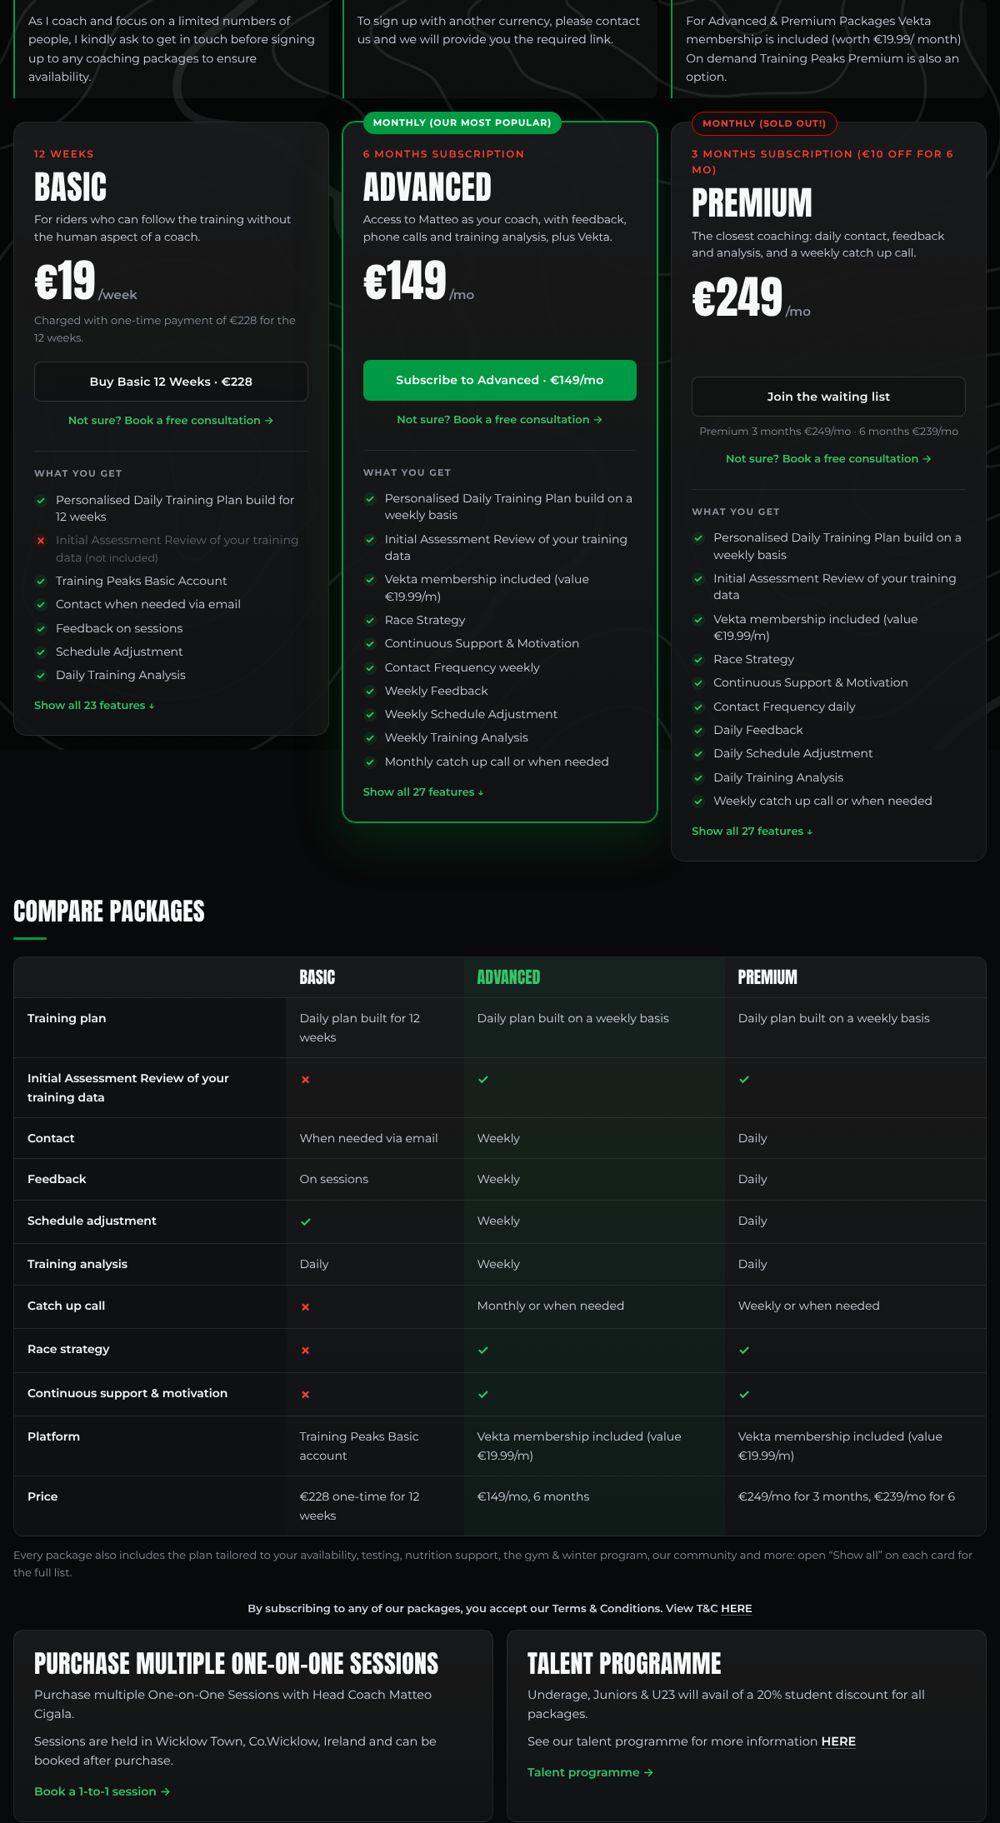
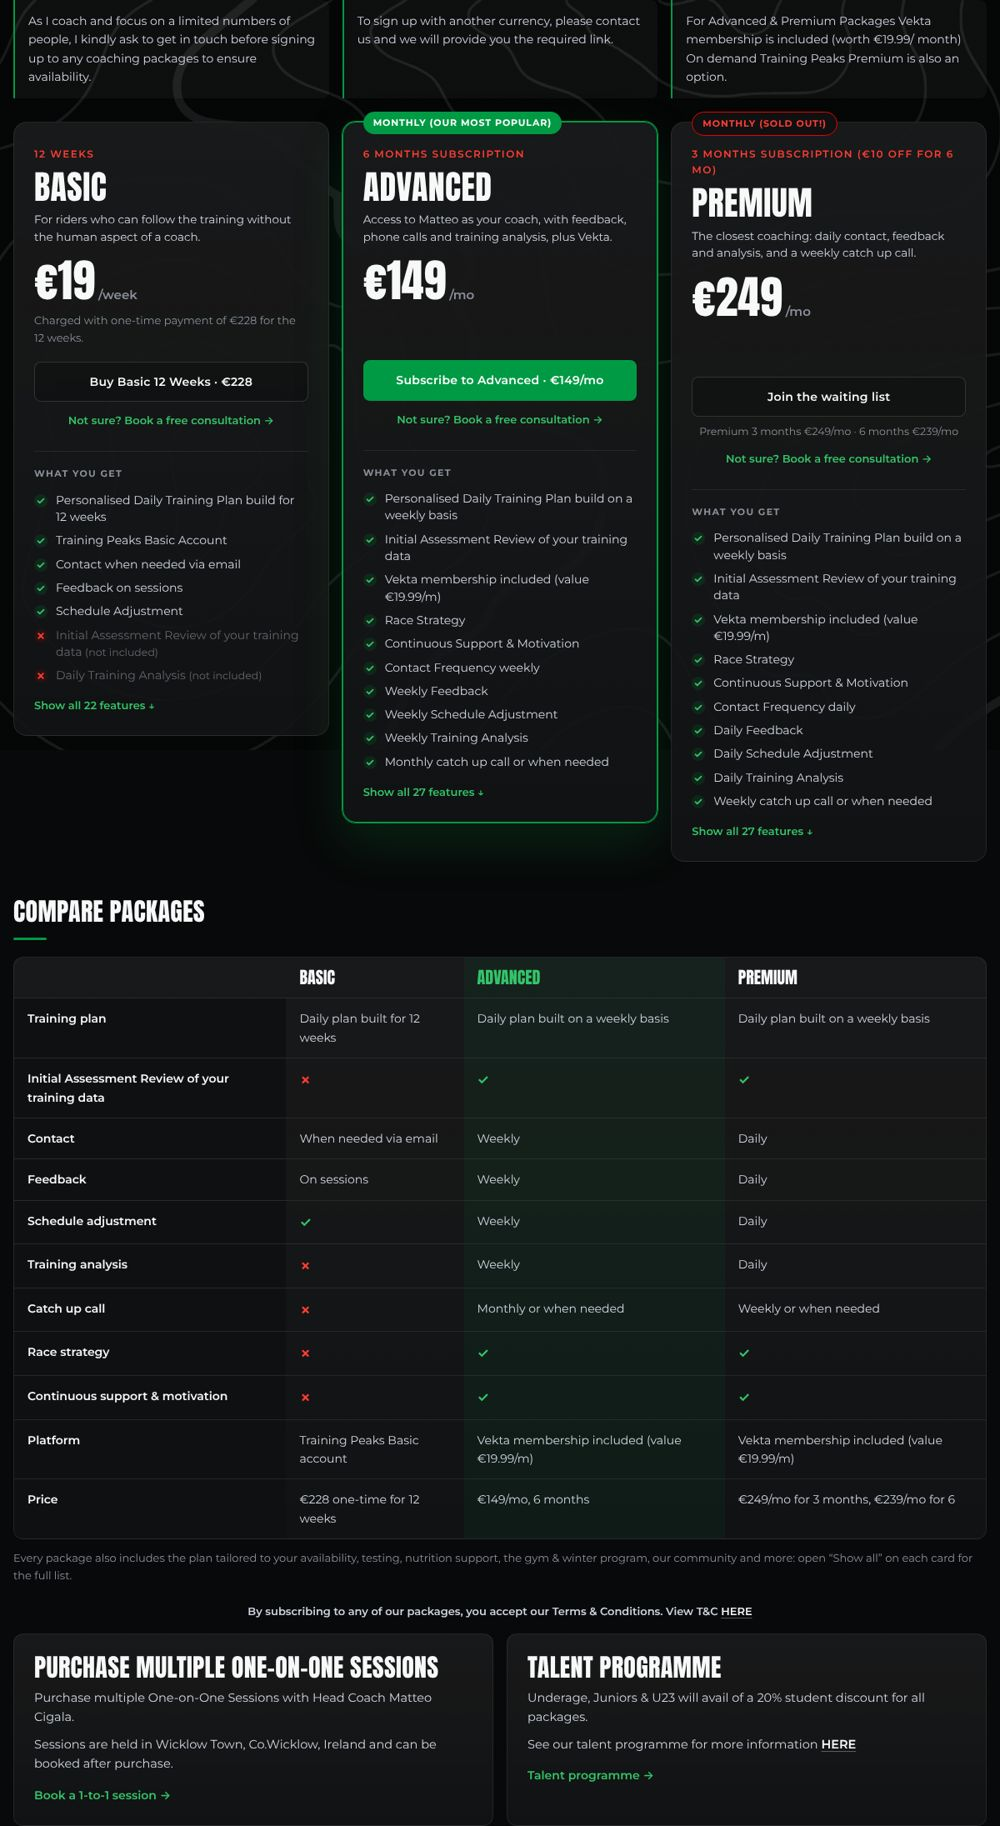
Individual Packages: Basic does not include training analysis (Matteo); not-included lines grouped at the end
Claude-Session: https://claude.ai/code/session_01APBtfV87hW2MRrnroMbwU8

diff --git a/coachingpages/individual-packages.html b/coachingpages/individual-packages.html
@@ -482,8 +482,8 @@ footer .in.social { display: flex; flex-wrap: wrap; gap: 8px; padding-bottom: 24
         <p class="pkg-sub">Charged with one-time payment of €228 for the 12 weeks.</p>
         <div class="pkg-buy"><a class="btn btn-ghost pay" href="https://cigala-cycling-retail.myshopify.com/cart/31567870165038:1?channel=buy_button" target="_blank" rel="noopener">Buy Basic 12 Weeks · €228</a><a class="pkg-call" href="https://calendly.com/cigalacycling" target="_blank" rel="noopener">Not sure? Book a free consultation →</a></div>
         <div class="pkg-lab">What you get</div>
-        <ul class="ticks"><li>Personalised Daily Training Plan build for 12 weeks</li><li class="no">Initial Assessment Review of your training data <span>(not included)</span></li><li>Training Peaks Basic Account</li><li>Contact when needed via email</li><li>Feedback on sessions</li><li>Schedule Adjustment</li><li>Daily Training Analysis</li><li class="more">Plan Tailored to your Training Availability</li><li class="more">Stretching &amp; Core Exercises</li><li class="more">Gym &amp; Winter Program + Support</li><li class="more">Test Protocols (CP, FTP, FTHR or INSCYD)</li><li class="more">Tests Analysis</li><li class="more">Adaptive Training Zones changing weekly</li><li class="more">Training Periodized based on goals</li><li class="more">Blood panel review from our Sport Nutritionist</li><li class="more">Discount membership for products at retail.cigalacycling.com</li><li class="more">Nutritional Guide</li><li class="more">Blog posts for tips</li><li class="more">Sync &amp; follow workouts on Garmin/Wahoo/Zwift etc</li><li class="more">Access to World Class Nutritionist &amp; Mental Coach</li><li class="more">Access to our online Community (value €9/m)</li><li class="more">Discounted metabolic INSCYD testing</li><li class="more">Daily Session Carbs Recommendations</li><li class="more">Nutritional Consult with our Sports Nutritionist</li></ul>
-        <button type="button" class="pkg-all" aria-expanded="false" data-n="23">Show all 23 features ↓</button>
+        <ul class="ticks"><li>Personalised Daily Training Plan build for 12 weeks</li><li>Training Peaks Basic Account</li><li>Contact when needed via email</li><li>Feedback on sessions</li><li>Schedule Adjustment</li><li class="no">Initial Assessment Review of your training data <span>(not included)</span></li><li class="no">Daily Training Analysis <span>(not included)</span></li><li class="more">Plan Tailored to your Training Availability</li><li class="more">Stretching &amp; Core Exercises</li><li class="more">Gym &amp; Winter Program + Support</li><li class="more">Test Protocols (CP, FTP, FTHR or INSCYD)</li><li class="more">Tests Analysis</li><li class="more">Adaptive Training Zones changing weekly</li><li class="more">Training Periodized based on goals</li><li class="more">Blood panel review from our Sport Nutritionist</li><li class="more">Discount membership for products at retail.cigalacycling.com</li><li class="more">Nutritional Guide</li><li class="more">Blog posts for tips</li><li class="more">Sync &amp; follow workouts on Garmin/Wahoo/Zwift etc</li><li class="more">Access to World Class Nutritionist &amp; Mental Coach</li><li class="more">Access to our online Community (value €9/m)</li><li class="more">Discounted metabolic INSCYD testing</li><li class="more">Daily Session Carbs Recommendations</li><li class="more">Nutritional Consult with our Sports Nutritionist</li></ul>
+        <button type="button" class="pkg-all" aria-expanded="false" data-n="22">Show all 22 features ↓</button>
       </article><article class="pkg hot" id="pkg-advanced">
         <span class="pkg-badge">Monthly (Our Most Popular)</span>
         <div class="pkg-term">6 months subscription</div>
@@ -508,7 +508,7 @@ footer .in.social { display: flex; flex-wrap: wrap; gap: 8px; padding-bottom: 24
         <button type="button" class="pkg-all" aria-expanded="false" data-n="27">Show all 27 features ↓</button>
       </article>
     </div>
-    <div class="cmp-wrap"><h3 class="h-sm">Compare packages</h3><div class="bar"></div><div class="cmp-scroll"><table class="cmp"><thead><tr><th scope="col"><span class="vh">Feature</span></th><th scope="col">Basic</th><th scope="col" class="hot">Advanced</th><th scope="col">Premium</th></tr></thead><tbody><tr><th scope="row">Training plan</th><td data-l="Basic">Daily plan built for 12 weeks</td><td class="hot" data-l="Advanced">Daily plan built on a weekly basis</td><td data-l="Premium">Daily plan built on a weekly basis</td></tr><tr><th scope="row">Initial Assessment Review of your training data</th><td data-l="Basic"><span class="n" aria-label="Not included">✗</span></td><td class="hot" data-l="Advanced"><span class="y" aria-label="Included">✓</span></td><td data-l="Premium"><span class="y" aria-label="Included">✓</span></td></tr><tr><th scope="row">Contact</th><td data-l="Basic">When needed via email</td><td class="hot" data-l="Advanced">Weekly</td><td data-l="Premium">Daily</td></tr><tr><th scope="row">Feedback</th><td data-l="Basic">On sessions</td><td class="hot" data-l="Advanced">Weekly</td><td data-l="Premium">Daily</td></tr><tr><th scope="row">Schedule adjustment</th><td data-l="Basic"><span class="y" aria-label="Included">✓</span></td><td class="hot" data-l="Advanced">Weekly</td><td data-l="Premium">Daily</td></tr><tr><th scope="row">Training analysis</th><td data-l="Basic">Daily</td><td class="hot" data-l="Advanced">Weekly</td><td data-l="Premium">Daily</td></tr><tr><th scope="row">Catch up call</th><td data-l="Basic"><span class="n" aria-label="Not included">✗</span></td><td class="hot" data-l="Advanced">Monthly or when needed</td><td data-l="Premium">Weekly or when needed</td></tr><tr><th scope="row">Race strategy</th><td data-l="Basic"><span class="n" aria-label="Not included">✗</span></td><td class="hot" data-l="Advanced"><span class="y" aria-label="Included">✓</span></td><td data-l="Premium"><span class="y" aria-label="Included">✓</span></td></tr><tr><th scope="row">Continuous support &amp; motivation</th><td data-l="Basic"><span class="n" aria-label="Not included">✗</span></td><td class="hot" data-l="Advanced"><span class="y" aria-label="Included">✓</span></td><td data-l="Premium"><span class="y" aria-label="Included">✓</span></td></tr><tr><th scope="row">Platform</th><td data-l="Basic">Training Peaks Basic account</td><td class="hot" data-l="Advanced">Vekta membership included (value €19.99/m)</td><td data-l="Premium">Vekta membership included (value €19.99/m)</td></tr><tr><th scope="row">Price</th><td data-l="Basic">€228 one-time for 12 weeks</td><td class="hot" data-l="Advanced">€149/mo, 6 months</td><td data-l="Premium">€249/mo for 3 months, €239/mo for 6</td></tr></tbody></table></div><p class="cmp-note">Every package also includes the plan tailored to your availability, testing, nutrition support, the gym &amp; winter program, our community and more: open “Show all” on each card for the full list.</p></div>
+    <div class="cmp-wrap"><h3 class="h-sm">Compare packages</h3><div class="bar"></div><div class="cmp-scroll"><table class="cmp"><thead><tr><th scope="col"><span class="vh">Feature</span></th><th scope="col">Basic</th><th scope="col" class="hot">Advanced</th><th scope="col">Premium</th></tr></thead><tbody><tr><th scope="row">Training plan</th><td data-l="Basic">Daily plan built for 12 weeks</td><td class="hot" data-l="Advanced">Daily plan built on a weekly basis</td><td data-l="Premium">Daily plan built on a weekly basis</td></tr><tr><th scope="row">Initial Assessment Review of your training data</th><td data-l="Basic"><span class="n" aria-label="Not included">✗</span></td><td class="hot" data-l="Advanced"><span class="y" aria-label="Included">✓</span></td><td data-l="Premium"><span class="y" aria-label="Included">✓</span></td></tr><tr><th scope="row">Contact</th><td data-l="Basic">When needed via email</td><td class="hot" data-l="Advanced">Weekly</td><td data-l="Premium">Daily</td></tr><tr><th scope="row">Feedback</th><td data-l="Basic">On sessions</td><td class="hot" data-l="Advanced">Weekly</td><td data-l="Premium">Daily</td></tr><tr><th scope="row">Schedule adjustment</th><td data-l="Basic"><span class="y" aria-label="Included">✓</span></td><td class="hot" data-l="Advanced">Weekly</td><td data-l="Premium">Daily</td></tr><tr><th scope="row">Training analysis</th><td data-l="Basic"><span class="n" aria-label="Not included">✗</span></td><td class="hot" data-l="Advanced">Weekly</td><td data-l="Premium">Daily</td></tr><tr><th scope="row">Catch up call</th><td data-l="Basic"><span class="n" aria-label="Not included">✗</span></td><td class="hot" data-l="Advanced">Monthly or when needed</td><td data-l="Premium">Weekly or when needed</td></tr><tr><th scope="row">Race strategy</th><td data-l="Basic"><span class="n" aria-label="Not included">✗</span></td><td class="hot" data-l="Advanced"><span class="y" aria-label="Included">✓</span></td><td data-l="Premium"><span class="y" aria-label="Included">✓</span></td></tr><tr><th scope="row">Continuous support &amp; motivation</th><td data-l="Basic"><span class="n" aria-label="Not included">✗</span></td><td class="hot" data-l="Advanced"><span class="y" aria-label="Included">✓</span></td><td data-l="Premium"><span class="y" aria-label="Included">✓</span></td></tr><tr><th scope="row">Platform</th><td data-l="Basic">Training Peaks Basic account</td><td class="hot" data-l="Advanced">Vekta membership included (value €19.99/m)</td><td data-l="Premium">Vekta membership included (value €19.99/m)</td></tr><tr><th scope="row">Price</th><td data-l="Basic">€228 one-time for 12 weeks</td><td class="hot" data-l="Advanced">€149/mo, 6 months</td><td data-l="Premium">€249/mo for 3 months, €239/mo for 6</td></tr></tbody></table></div><p class="cmp-note">Every package also includes the plan tailored to your availability, testing, nutrition support, the gym &amp; winter program, our community and more: open “Show all” on each card for the full list.</p></div>
     <p class="terms"><b>By subscribing to any of our packages, you accept our Terms &amp; Conditions. View T&amp;C <a href="https://coaching.cigalacycling.com/terms-conditions/" target="_blank" rel="noopener">HERE</a></b></p>
 
 

diff --git a/tools/build_coaching_packages.py b/tools/build_coaching_packages.py
@@ -48,8 +48,12 @@ def card(key, h2, term, price, per, sub, buttons, badge='', cls=''):
     top = list(own[key])
     if key in ('advanced', 'premium'): top.insert(1, ASSESS)
     rest = [f for f in F[key] if f not in own[key]]
+    # Matteo, 15 Nov 2026: Basic does NOT include training analysis (the live list said "Daily Training Analysis")
+    NOT_IN_BASIC = {'Daily Training Analysis'}
+    no = [ASSESS] + [x for x in top if x in NOT_IN_BASIC] if key == 'basic' else []
+    top = [x for x in top if x not in no]
     items = ''.join(f'<li>{E(x)}</li>' for x in top)
-    if key == 'basic': items = items.replace('</li>', f'</li><li class="no">{E(ASSESS)} <span>(not included)</span></li>', 1)
+    items += ''.join(f'<li class="no">{E(x)} <span>(not included)</span></li>' for x in no)  # shown, not counted
     items += ''.join(f'<li class="more">{E(x)}</li>' for x in rest)
     total = len(top) + len(rest)
     return f'''<article class="pkg {cls}" id="pkg-{key}">
@@ -73,7 +77,7 @@ ROWS = [
     ('Contact', 'When needed via email', 'Weekly', 'Daily'),
     ('Feedback', 'On sessions', 'Weekly', 'Daily'),
     ('Schedule adjustment', Y, 'Weekly', 'Daily'),
-    ('Training analysis', 'Daily', 'Weekly', 'Daily'),
+    ('Training analysis', N, 'Weekly', 'Daily'),
     ('Catch up call', N, 'Monthly or when needed', 'Weekly or when needed'),
     ('Race strategy', N, Y, Y),
     ('Continuous support &amp; motivation', N, Y, Y),
